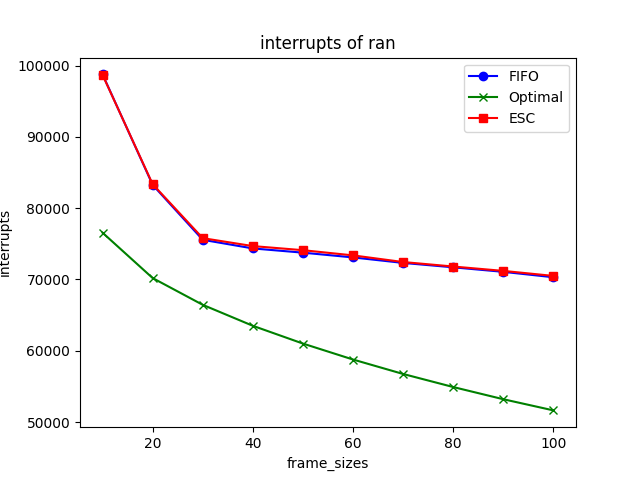
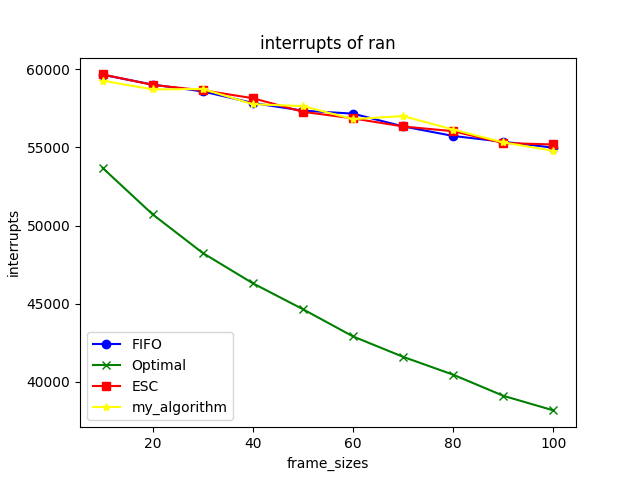
Updated city information

diff --git a/main.py b/main.py
@@ -1,5 +1,6 @@
-import os, random
+import os, random, time
 import pandas as pd
+from collections import defaultdict
 
 # FIFO
 def fifo(page_references, num_frames):
@@ -12,13 +13,13 @@ def fifo(page_references, num_frames):
     for page in page_references:
         if page not in frames:
             page_faults += 1
-            interrupts += 1
             if len(frames) < num_frames:
                 frames.append(page)
             else:
                 page_to_remove = frames.pop(0)
                 if dirty_bits.get(page_to_remove, False):
                     disk_writes += 1
+                    interrupts += 1
                 frames.append(page)
         dirty_bits[page] = random.choice([True, False])
 
@@ -31,24 +32,31 @@ def optimal(page_references, num_frames):
     interrupts = 0
     disk_writes = 0
     dirty_bits = {}
+    
+    # 預處理：構建每個頁面的未來使用位置列表
+    future_uses = defaultdict(list)
+    for i, page in enumerate(page_references):
+        future_uses[page].append(i)
 
-    for i in range(len(page_references)):
-        page = page_references[i]
+    for i, page in enumerate(page_references):
+        # 移除當前位置
+        if future_uses[page]:
+            future_uses[page].pop(0)
+        
         if page not in frames:
             # 頁面錯誤發生
             page_faults += 1
-            interrupts += 1
             if len(frames) < num_frames:
                 frames.append(page)
             else:
                 # Optimal 替換邏輯
-                # 尋找未來最長時間不會被訪問的頁面
+                # 尋找未來最遠使用的頁面
                 furthest_use = -1
                 page_to_remove = None
                 for frame_page in frames:
-                    try:
-                        next_use = page_references[i+1:].index(frame_page)
-                    except ValueError:
+                    if future_uses[frame_page]:
+                        next_use = future_uses[frame_page][0]
+                    else:
                         next_use = float('inf')  # 該頁面不再被使用
                     if next_use > furthest_use:
                         furthest_use = next_use
@@ -57,6 +65,7 @@ def optimal(page_references, num_frames):
                 frames.remove(page_to_remove)
                 if dirty_bits.get(page_to_remove, False):
                     disk_writes += 1
+                    interrupts += 1
 
                 frames.append(page)
 
@@ -78,7 +87,6 @@ def enhanced_second_chance(page_references, num_frames):
     for page in page_references:
         if page not in frames:
             page_faults += 1
-            interrupts += 1
             if len(frames) < num_frames:
                 frames.append(page)
                 reference_bits[page] = 1  # 新載入頁面引用位設為 1
@@ -90,6 +98,7 @@ def enhanced_second_chance(page_references, num_frames):
                         # 引用位為 0，可替換
                         if dirty_bits.get(page_to_check, False):
                             disk_writes += 1
+                            interrupts += 1
                         frames[pointer] = page
                         reference_bits[page] = 1  # 新頁面引用位設為 1
                         break
@@ -97,6 +106,50 @@ def enhanced_second_chance(page_references, num_frames):
                         # 引用位為 1，重設引用位，並移動指針
                         reference_bits[page_to_check] = 0
                         pointer = (pointer + 1) % num_frames
+
+        # 隨機設置髒位
+        dirty_bits[page] = random.choice([True, False])
+
+    return page_faults, interrupts, disk_writes
+
+# My Algorithm
+def myal(page_references, num_frames, weight_lru=2, weight_dirty=3):
+    frames = []  # 用來存儲當前內存框架中的頁面
+    page_faults = 0  # 頁面錯誤次數
+    interrupts = 0  # 中斷次數
+    disk_writes = 0  # 磁碟寫入次數
+    dirty_bits = {}  # 用來追蹤每個頁面的髒位
+    last_used = {}  # 用來追蹤每個頁面的最近使用時間
+
+    for current_time, page in enumerate(page_references):
+        # 如果頁面不在內存框架中
+        if page not in frames:
+            page_faults += 1
+            
+            
+            if len(frames) < num_frames:
+                frames.append(page)
+            else:
+                # 基於加權成本替換的邏輯進行頁面選擇
+                def weighted_cost(p):
+                    # 計算替換成本：髒位和最近使用時間的權重結合
+                    lru_cost = weight_lru * (current_time - last_used.get(p, 0))
+                    dirty_cost = weight_dirty if dirty_bits.get(p, False) else 0
+                    return lru_cost + dirty_cost
+
+                # 找到成本最高的頁面並替換
+                page_to_replace = max(frames, key=weighted_cost)
+                frames.remove(page_to_replace)
+                
+                # 如果被替換的頁面是髒頁，則增加磁碟寫入次數
+                if dirty_bits.get(page_to_replace, False):
+                    disk_writes += 1
+                    interrupts += 1
+                
+                frames.append(page)
+        
+        # 更新該頁面的最近使用時間
+        last_used[page] = current_time
 
         # 隨機設置髒位
         dirty_bits[page] = random.choice([True, False])
@@ -151,7 +204,8 @@ def generate_cyclic_references(total_references, page_range, cycle_length=50):
 algorithms = {
     'fifo': fifo,
     'opt': optimal,
-    'exc': enhanced_second_chance
+    'exc': enhanced_second_chance,
+    'myal': myal,
 }
 
 strings = {
@@ -165,7 +219,7 @@ frame_sizes = [10, 20, 30, 40, 50, 60, 70, 80, 90, 100]
 num_references = 120000  
 page_range = 1200 
 
-for x in range(0,3):
+for x in range(3,4):
     # Directory
     output_dir = f"{list(algorithms.keys())[x]}data"
     os.makedirs(output_dir, exist_ok=True)

diff --git a/com.py b/com.py
@@ -1,0 +1,55 @@
+import pandas as pd
+
+# 定義三個資料庫和三個參數
+datas = ['ran', 'loc', 'cyc']
+results = ['page_faults', 'interrupts', 'disk_writes']
+
+# 用來存放比較結果的數據
+comparison_data = []
+
+# 開始進行比較
+for x in datas:
+    # 讀取 FIFO 和 LRU 的 CSV 文件
+    df_fifo = pd.read_csv(f'fifodata/fifo{x}.csv')
+    df_myal = pd.read_csv(f'myaldata/myal{x}.csv')
+    
+    # 計算 FIFO 和 LRU 的總成本（interrupts + disk_writes）
+    df_fifo['cost'] = df_fifo['interrupts'] + df_fifo['disk_writes']
+    df_myal['cost'] = df_myal['interrupts'] + df_myal['disk_writes']
+    
+    # 建立一個空的字典來存放比較結果
+    comparison_dict = {
+        'frame_sizes': df_fifo['frame_sizes'],  # 框架大小
+        f'{x}_page_fault': [],  # 頁面錯誤比較
+        f'{x}_cost': []  # 成本比較
+    }
+    
+    # 比較 FIFO 和 LRU 的結果
+    for i in range(len(df_fifo)):
+        # 比較頁面錯誤：如果 LRU 比 FIFO 好（少），設為 1，否則 0
+        if df_myal['page_faults'][i] < df_fifo['page_faults'][i]:
+            comparison_dict[f'{x}_page_fault'].append(1)
+        else:
+            comparison_dict[f'{x}_page_fault'].append(0)
+        
+        # 比較總成本：如果 LRU 的成本比 FIFO 低，設為 1，否則 0
+        if df_myal['cost'][i] < df_fifo['cost'][i]:
+            comparison_dict[f'{x}_cost'].append(1)
+        else:
+            comparison_dict[f'{x}_cost'].append(0)
+    
+    # 把結果加入到比較數據列表中
+    comparison_data.append(pd.DataFrame(comparison_dict))
+
+# 合併三個資料庫的比較結果
+final_df = pd.concat(comparison_data, axis=1)
+
+# 確保只保留一次 frame_sizes（避免重複）
+final_df = final_df.loc[:,~final_df.columns.duplicated()]
+total_ones = (final_df == 1).sum().sum()
+total_zeros = (final_df == 0).sum().sum()
+# 查看最終結果
+print(final_df)
+
+# 儲存最終比較結果
+final_df.to_csv(f'my{total_ones}:fifo{total_zeros}.csv', index=False)

diff --git a/plt.py b/plt.py
@@ -6,13 +6,15 @@ datas = ['ran','loc','cyc']
 results = ['page_faults', 'interrupts', 'disk_writes']
 
 for x in datas:
-    df1 = pd.read_csv('fifodata/fifocyc.csv')  
-    df2 = pd.read_csv('optdata/optcyc.csv')  
-    df3 = pd.read_csv('excdata/exccyc.csv')  
+    df1 = pd.read_csv(f'fifodata/fifo{x}.csv')  
+    df2 = pd.read_csv(f'optdata/opt{x}.csv')  
+    df3 = pd.read_csv(f'excdata/exc{x}.csv')
+    df4 = pd.read_csv(f'myaldata/myal{x}.csv')
     for y in results:
         plt.plot(df1['frame_sizes'], df1[f'{y}'], label="FIFO", color='blue', marker='o')
         plt.plot(df2['frame_sizes'], df2[f'{y}'], label="Optimal", color='green', marker='x')
         plt.plot(df3['frame_sizes'], df3[f'{y}'], label="ESC", color='red', marker='s')
+        plt.plot(df4['frame_sizes'], df4[f'{y}'], label="my_algorithm", color='yellow', marker='*')
 
         plt.xlabel("frame_sizes")
         plt.ylabel(f"{y}")
@@ -21,5 +23,5 @@ for x in datas:
         plt.legend()
 
         plt.savefig(f'resultplt/{y}_{x}.png')
-
-        plt.show()
+        
+        plt.close()
